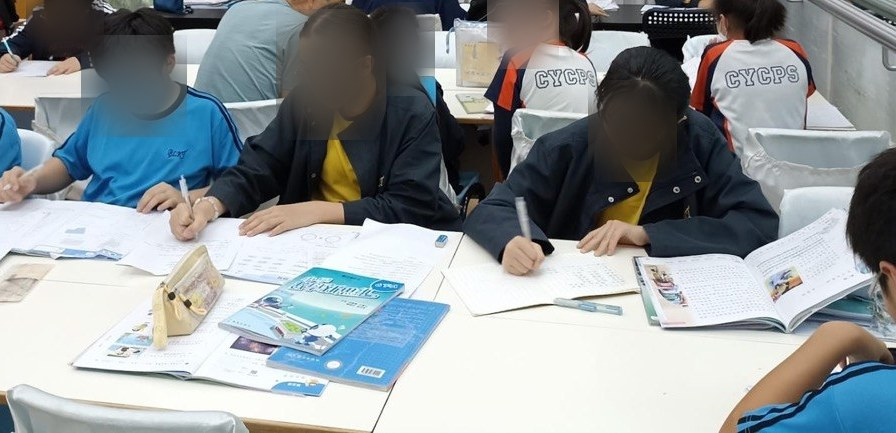
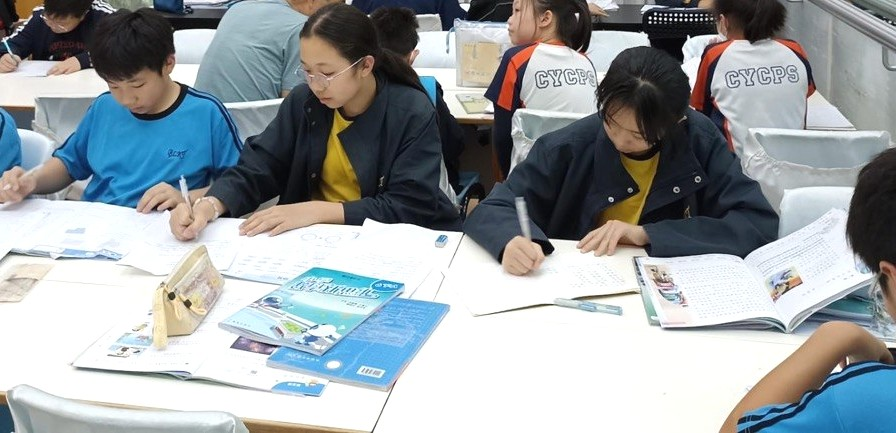
Photos: use original (consent obtained); keep blurred fallback

diff --git a/en/index.html b/en/index.html
@@ -42,7 +42,7 @@
       </div>
     </div>
     <div class="hero-media">
-      <img src="../assets/classroom-wide.jpg?v=2" alt="Classroom at Seaworthy Education Centre" width="2000" height="1321">
+      <img src="../assets/classroom-wide.jpg?v=3" alt="Classroom at Seaworthy Education Centre" width="2000" height="1321">
       <div class="float">
         <div><b>HK$1,000</b><span>per month</span></div>
         <div><b>22 yrs</b><span>in Kwai Fong</span></div>
@@ -83,7 +83,7 @@
         <p>Practice papers, marked and explained question by question, plus work on timing under pressure.</p>
       </div>
     </div>
-    <img src="../assets/classroom-detail.jpg?v=2" alt="Students at work" width="1400" height="720" style="border-radius:26px;margin-top:34px;width:100%">
+    <img src="../assets/classroom-detail.jpg?v=3" alt="Students at work" width="1400" height="720" style="border-radius:26px;margin-top:34px;width:100%">
   </div>
 </section>
 

diff --git a/index.html b/index.html
@@ -42,7 +42,7 @@
       </div>
     </div>
     <div class="hero-media">
-      <img src="assets/classroom-wide.jpg?v=2" alt="海納教育中心課室環境" width="2000" height="1321">
+      <img src="assets/classroom-wide.jpg?v=3" alt="海納教育中心課室環境" width="2000" height="1321">
       <div class="float">
         <div><b>HK$1,000</b><span>每月</span></div>
         <div><b>22 年</b><span>辦學經驗</span></div>
@@ -83,7 +83,7 @@
         <p>考試前集中處理弱項，做練習卷並逐題講解，同時調整答題時間分配。</p>
       </div>
     </div>
-    <img src="assets/classroom-detail.jpg?v=2" alt="課堂情況" width="1400" height="720" style="border-radius:26px;margin-top:34px;width:100%">
+    <img src="assets/classroom-detail.jpg?v=3" alt="課堂情況" width="1400" height="720" style="border-radius:26px;margin-top:34px;width:100%">
   </div>
 </section>
 
